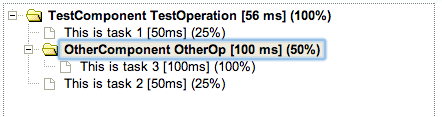
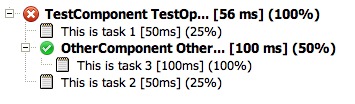
GADGETS-32: updated the css and layout of the call trace gadget.

diff --git a/gadgets/src/main/webapp/calltrace-gadget/g.html b/gadgets/src/main/webapp/calltrace-gadget/g.html
@@ -9,8 +9,10 @@
 
 		<style type="text/css">
 			#tree {width:45%;float:left;}
-			#detail {float:right;border:1px solid black; width:50%;}
-			.tb-row {border:1px solid #98BF21;}
+			#detail {float:right;border:1px solid #69C; width:50%; border-collapse: collapse;font-family: "Lucida Sans Unicode", "Lucida Grande", Sans-Serif; font-size: 12px;margin:10px;}
+			#detail thead th {font-weight: normal;font-size: 14px; color:#039;border-bottom: 1px dashed #69C; padding:12px 17px;text-align: left;}
+			#detail tbody td {text-align: left;vertical-align: top;color: #669; padding: 7px 10px; }
+			#detail tbody th {text-align: right;vertical-align: top;color: #669; padding: 7px 10px; }
 	   </style>
 		
 	  <script type="text/javascript">
@@ -31,24 +33,30 @@
 	  	    var treeObject = {};
 	  		var isCall = (task.type == "Call");
 	  		if (isCall) {
-	  			treeObject["title"] = task.component + " " + task.operation + " [" + task.duration + " ms] (" + task.percentage + "%)";
+	  			treeObject["title"] = getTruncatedTitle(task.component + " " + task.operation) + " [" + task.duration + " ms] (" + task.percentage + "%)";
 	  			treeObject["isFolder"] = true;
-	  			treeObject["request"] = task.request;
-	  			treeObject["response"] = task.response;
-	  			treeObject["fault"] = task.fault;
+	  			treeObject["request"] = escapeHTML(task.request);
+	  			treeObject["response"] = escapeHTML(task.response);
+	  			treeObject["fault"] = escapeHTML(task.fault);
 	  			treeObject['component'] = task.component;
 	  			treeObject['operation'] = task.operation;
 	  			treeObject['duration'] = task.duration;
 	  			treeObject['percentage'] = task.percentage;
 	  			treeObject['type'] = task.type;
+	  			if (task.fault == undefined) {
+	  				treeObject['addClass'] = 'success';
+	  			} else {
+	  				treeObject['addClass'] = 'error';
+	  			}
 
 	  		} else {
-	  			treeObject["title"] = task.description + " [" + task.duration + "ms] (" + task.percentage + "%)";
+	  			treeObject["title"] = getTruncatedTitle(task.description) + " [" + task.duration + "ms] (" + task.percentage + "%)";
 	  			treeObject["isFolder"] = false;
 	  			treeObject['description'] = task.description;
 	  			treeObject['duration'] = task.duration;
 	  			treeObject['percentage'] = task.percentage;
 	  			treeObject['type'] = task.type;
+	  			treeObject['addClass'] = 'task';
 	  		}
 
 	  		if (task.tasks != undefined) {
@@ -74,7 +82,7 @@
 
 	  function showTheDetail(node) {
 	  	  $("#detail").show();
-	  	  var properties = ['type', 'component', 'operation', 'request', 'response', 'requestLatency', 'responseLatency', 'duration', 'percentage'];
+	  	  var properties = ['type', 'component', 'operation', 'request', 'response', 'fault','requestLatency', 'responseLatency', 'duration', 'percentage'];
 	  	  var thedata = node.data;
 	  	  deleteRows();
 	  	  for(i = 0; i < properties.length; i++) {
@@ -95,16 +103,29 @@
 		}
 
 		function insertRow(data) {
-			var theBody, theRow, theCell, i;
+			var theBody, theRow, theHead, theCell, i;
 			theBody = document.getElementById("detail-body");
 			theRow = document.createElement("TR");
 			theRow.setAttribute("class", "tb-row");
 			theBody.appendChild(theRow);
-			for (i = 0; i < data.length; i++) {
-				theCell = document.createElement("TD");
-				theCell.innerHTML = data[i];
-				theRow.appendChild(theCell);
-			}
+
+			theHead = document.createElement("TH");
+			theHead.innerHTML = data[0];
+			theRow.appendChild(theHead);
+
+			theCell = document.createElement("TD");
+			theCell.innerHTML = data[1];
+			theRow.appendChild(theCell);
+		}
+
+		function getTruncatedTitle(title) {
+			if (title.length < 20) return title;
+			else return title.substring(0, 20) + "...";
+		}
+
+		function escapeHTML(str) {
+			if (str == undefined) return;
+    		else return str.replace(/&/g, '&amp;').replace(/</g, '&lt;').replace(/>/g, '&gt;');
 		}
 
 	  </script>
@@ -115,7 +136,8 @@
 <body>
   	<div id="tree"></div>
   	<div id="detail">
-		<table style="width:100%" border="0" cellspacing="3" cellpadding="5">
+		<table style="width:100%" summary="Summary">
+			<thead><tr><th width="20%">Summary</th><th></th></tr></thead>
 			<tbody id="detail-body">						
 			</tbody>
 	   </table>

diff --git a/gadgets/src/main/webapp/calltrace-gadget/tabs.css b/gadgets/src/main/webapp/calltrace-gadget/tabs.css
@@ -1,0 +1,44 @@
+.tablib_table {
+  width: 100%;
+  border-collapse: separate;
+  border-spacing: 0px;
+  empty-cells: show;
+  font-size: 11px;
+  text-align: center;
+}
+.tablib_emptyTab {
+  border-bottom: 1px solid #676767;
+  padding: 0px 1px;
+}
+.tablib_spacerTab {
+  border-bottom: 1px solid #676767;
+  padding: 0px 1px;
+  width: 1px;
+}
+.tablib_selected {
+  padding: 2px 0px;
+  background-color: #ffffff;
+  border: 1px solid #676767;
+  border-bottom-width: 0px;
+  color: #3366cc;
+  font-weight: bold;
+  width: 80px;
+  cursor: default;
+}
+.tablib_unselected {
+  padding: 2px 0px;
+  background-color: #dddddd;
+  border: 1px solid #aaaaaa;
+  border-bottom-color: #676767;
+  color: #000000;
+  width: 80px;
+  cursor: pointer;
+}
+.tablib_navContainer {
+  width: 10px;
+  vertical-align: middle;
+}
+.tablib_navContainer a:link, .tablib_navContainer a:visited, .tablib_navContainer a:hover {
+  color: #3366aa;
+  text-decoration: none;
+}

diff --git a/gadgets/src/main/webapp/calltrace-gadget/skin/ui.dynatree.css b/gadgets/src/main/webapp/calltrace-gadget/skin/ui.dynatree.css
@@ -9,7 +9,7 @@ ul.dynatree-container
 	padding: 3px;
 	margin: 0; /* issue 201 */
 	background-color: white;
-	border: 1px dotted gray;
+	border: 0px dotted gray;
 	overflow: auto;
 	height: 100%; /* issue 263 */
 }
@@ -433,8 +433,25 @@ span.dynatree-drop-target.dynatree-drop-after a
  * Custom node classes (sample)
  */
 
-span.custom1 a
+span.success span.dynatree-icon
 {
-	background-color: maroon;
-	color: yellow;
+    background-position: 0 0;
+    background-image: url("green-circle.png");
+}
+
+span.error span.dynatree-icon
+{
+    background-position: 0 0;
+    background-image: url("red-circle.png");
+}
+
+span.warning span.dynatree-icon
+{
+    background-position: 0 0;
+    background-image: url("warning.png");
+}
+
+span.task span.dynatree-icon
+{
+    background-position: 0px 0px;
 }
